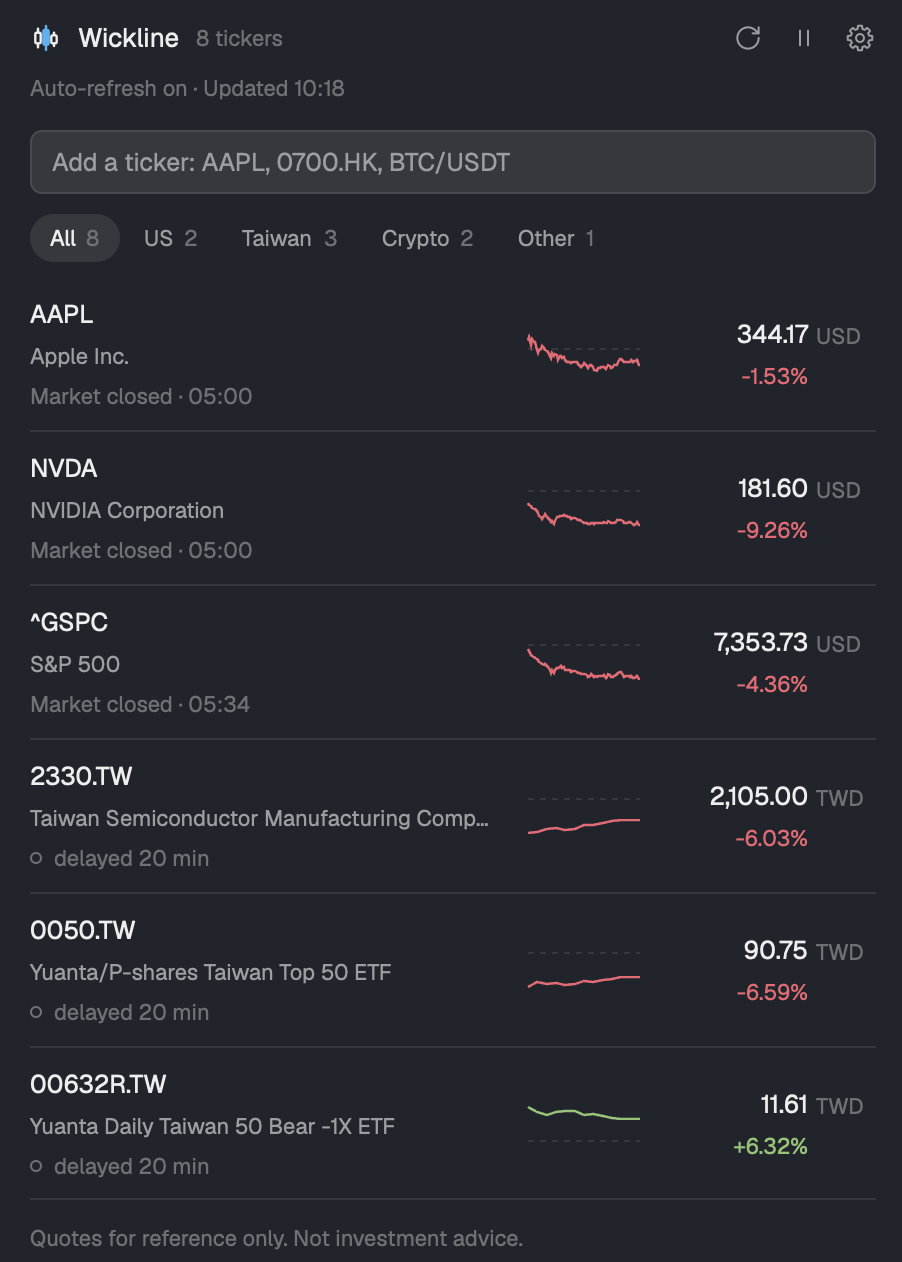
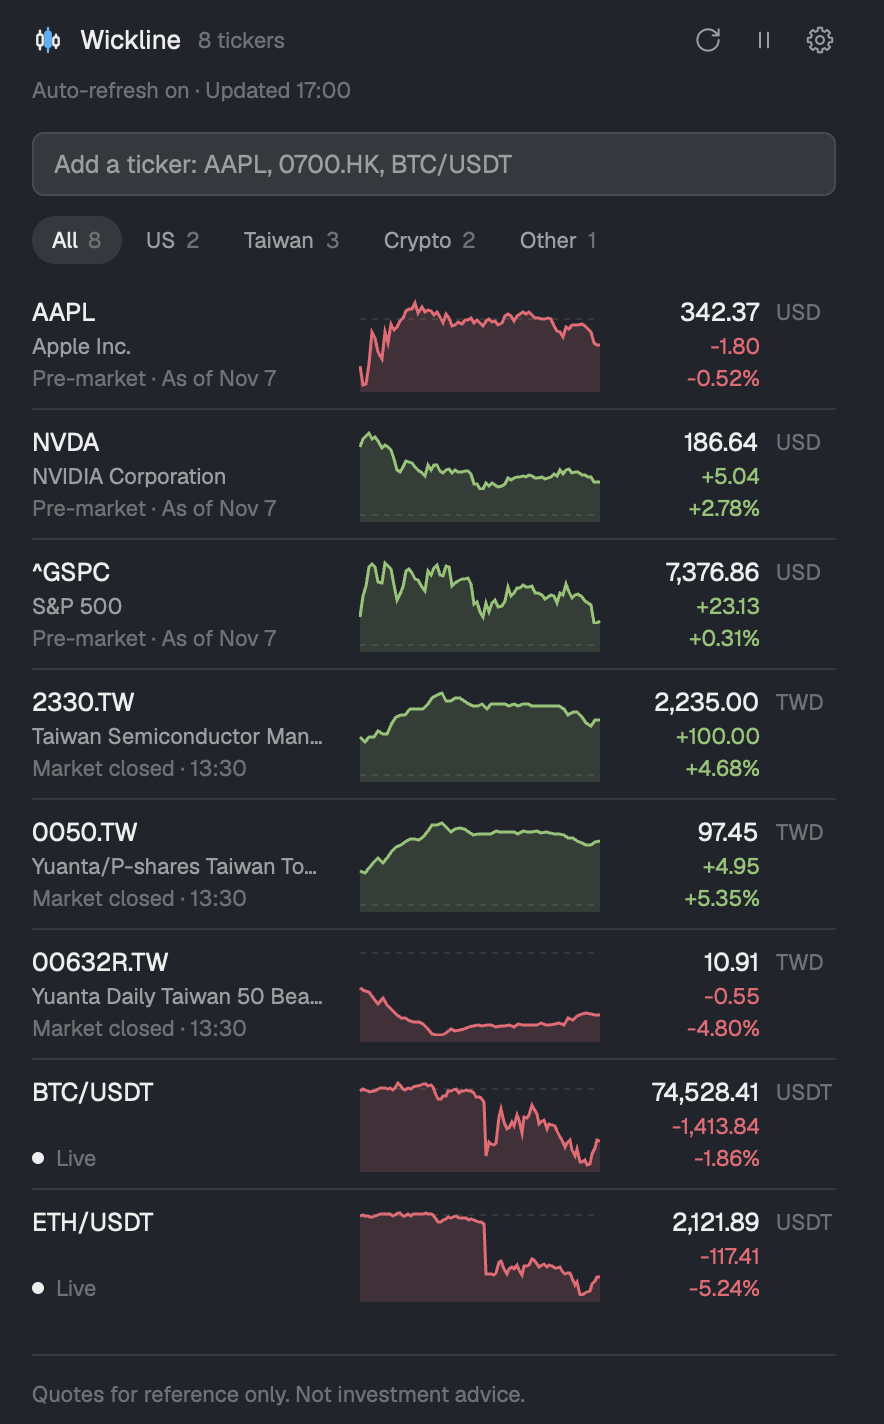
[BEHAV] Retake the preview for 0.4.0 and give the Chinese README its own
Motivation: preview.png still showed the 0.3 rows (no change amount, the small line); the Traditional Chinese README showed the English interface with green-up colors.
Approach: both shot from a scratch copy holding a generic list in memory (AAPL, NVDA, ^GSPC, 2330.TW, 0050.TW, 00632R.TW, BTC/USDT, ETH/USDT), Yahoo and Binance only, the mod alone: preview.png in English, assets/zh-TW/preview.png in 繁中 with red-up colors, used by README.zh-TW.md.
Impact: the listing and both READMEs show the current layout.

diff --git a/RECIPE.md b/RECIPE.md
@@ -113,7 +113,7 @@ A panel on the theme's `background` with `foreground` text: under 720px wide, th
 
 - **One mod**, `mods/wickline/`, no layout. `mod.json`: `{ "place": "none", "title": "Wickline" }`, so Herdr never docks it on its own. As a pane in any tab: `pane.split {direction: "right", mod: "wickline"}`.
 - **`keys.json`** at the repo root, merged into the person's by the install flow: `{ "global": { "ctrl-alt-b": { "command": "pane.split", "args": { "direction": "right", "mod": "wickline" } } } }`. Nothing else is bound.
-- **Listing**: the repo root is the listing folder: `mods/wickline/`, `keys.json`, `RECIPE.md`, `preview.png`, `README.md`, `README.zh-TW.md` (same sections), `LICENSE`, `assets/` (`logo-light.svg`, `logo-dark.svg`: the three candles at 96px, side candles `#1f2328` or `#e6edf3`, the middle one `#3a7bd5` in both), `.github/workflows/checks.yml` (tests and a secret scan), `tests/`; no `layouts/`.
+- **Listing**: the repo root is the listing folder: `mods/wickline/`, `keys.json`, `RECIPE.md`, `preview.png`, `README.md`, `README.zh-TW.md` (same sections), `LICENSE`, `assets/` (`zh-TW/preview.png`, the Traditional Chinese README's screenshot; `logo-light.svg`, `logo-dark.svg`: the three candles at 96px, side candles `#1f2328` or `#e6edf3`, the middle one `#3a7bd5` in both), `.github/workflows/checks.yml` (tests and a secret scan), `tests/`; no `layouts/`.
 - `main.js`: the one `View` (`gpui-kit` `View`; `gpui-base` `v_flex`, `h_flex`, `InputState`), the only module touching Herdr's storage, network, files and commands; everything else outside `ui/` is core (no Herdr, gpui or `fs` imports; Herdr comes in as a host), run by `node --test` with fakes. It picks the mode from `props()`, builds the hosts, runs the loops and the command loop, makes every input (in `init`, a handler or a task, never in `render`) and sizes the panel (`on_size_change`, `layoutFor`). The dialogs are the same mod and start no loop: `openOverlay({ mod: "wickline", kind: "dialog", width: 440, props: { detail: quote } })` (`detailView` in `ui/detail-dialog.js`), and a modal one with `settings: { tab, health }` (`settingsView` in `ui/settings-dialog.js`; the draft, inputs and Save stay on the view).
 - `ui/`: functions of the view and theme returning elements (`gpui-kit` `div`, `svg`, `PathBuilder`, `Background`, `window.paint_path`; `gpui-base` `h_flex`, `v_flex`, `Input`, `Checkbox`, `Switch`), no Herdr imports. `ui/panel.js` draws band, sidebar and table, sharing `brand`, `iconButton`, `headerIcons`, `statusText`, `addField`, `messages`, `problemLines`, `rowFrame` (handle, `×`, hairline, drop line), the list and the footer; `ui/parts.js` holds stateless helpers (`chart`, `priceBox`, `dot`, `segments`, `button`, `link`, `iconButton`, `segmented`, `checkbox`, `toggle`, `note`).
 - Charts: `chartGeometry` (`format.js`) scales a line into `[x%, y%]` points with 8% headroom, the previous close in range; `chart` paints `PathBuilder.stroke(stroke)` for the line (default 2px with the fill, else 1.25px; 1.5px in the sidebar and table), `.dash_array([3, 3])` for the rule and `PathBuilder.fill()` closed along the bottom, each with `window.paint_path(...)` as an absolute layer over a sized `div`.

diff --git a/README.zh-TW.md b/README.zh-TW.md
@@ -17,7 +17,7 @@
   <a href="https://github.com/jordan13p/wickline/actions/workflows/checks.yml"><img src="https://github.com/jordan13p/wickline/actions/workflows/checks.yml/badge.svg" alt="checks"></a>
 </p>
 
-![Wickline](preview.png)
+![Wickline](assets/zh-TW/preview.png)
 
 ## 特色
 
